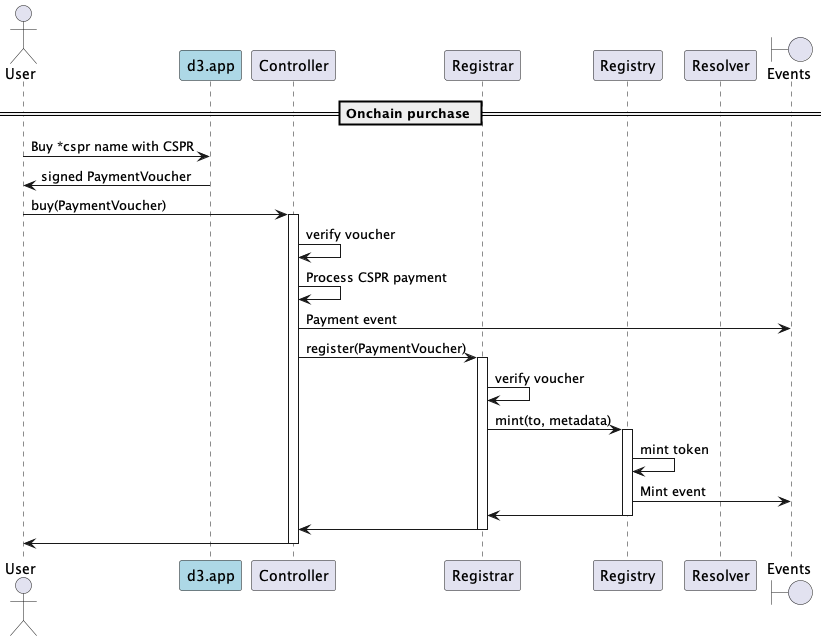
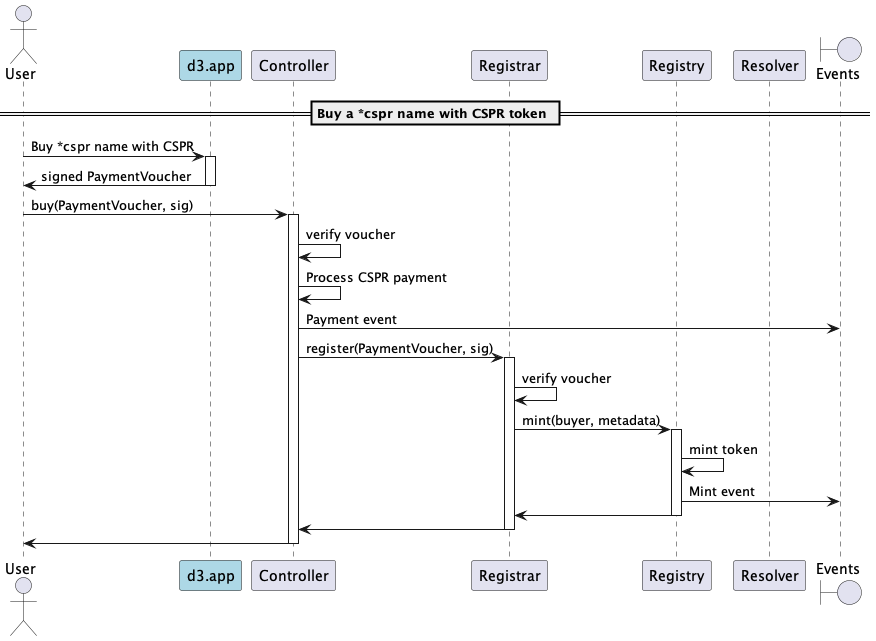
Update sequence diagrams

diff --git a/docs/sequence-diagrams/Secondary-sale market.md b/docs/sequence-diagrams/Secondary-sale market.md
@@ -1,0 +1,59 @@
+# Secondary-sale market
+
+## D3 Marketplace
+
+### List a *cspr name in the D3 Marketplace
+
+> As a *cspr name owner, I should be able to list my token in the D3 marketplace
+
+![](puml/d3-marketplace-list.png)
+[🔗](puml/d3-marketplace-list.puml)
+
+### Buy a *cspr name from D3 Marketplace with fiat payment
+
+> As a user, I should be able to buy a *cspr name listed in the D3 marketplace with a fiat payment
+
+![](puml/d3-marketplace-buy-fiat.png)
+[🔗](puml/d3-marketplace-buy-fiat.puml)
+
+### Buy a *cspr name from D3 Marketplace with CSPR token payment
+
+> As a user, I should be able to buy a *cspr name listed in the D3 marketplace with a CSPR token payment
+
+![](puml/d3-marketplace-buy-cspr-token.png)
+[🔗](puml/d3-marketplace-buy-cspr-token.puml)
+
+## Private actions
+
+### Approve / revoke an operator
+
+> As a *cspr name owner, I should be able to approve an operator, so that it can transfer the token on my behalf
+
+> As a *cspr name owner, I should be able to revoke the operator's permission
+
+![](puml/approve-revoke-operator.png)
+[🔗](puml/approve-revoke-operator.puml)
+
+### Approve for all
+
+> As an owner of one or more *cspr names, I should be able to approve an operator, so that it can transfer any of my tokens on my behalf
+
+> As an owner of one or more *cspr names, I should be able to revoke the operator's permission
+
+![](puml/approve-for-all.png)
+[🔗](puml/approve-for-all.puml)
+
+### Transfer
+
+> As a *cspr name owner, I should be able to transfer the ownership of the token to another account
+
+![](puml/transfer-domain.png)
+[🔗](puml/transfer-domain.puml)
+
+### Transfer from operator
+
+> As a token operator, I should be able to transfer the ownership of the token to another account
+
+![](puml/transfer-from-domain.png)
+[🔗](puml/transfer-from-domain.puml)
+

diff --git a/docs/sequence-diagrams/Admin functions.md b/docs/sequence-diagrams/Admin functions.md
@@ -1,35 +1,40 @@
 # Admin functions
 
-## Registry admin
+## Registry admin functions
 
-### Whitelist registrar
+### Whitelist registrar contract
 
+> As the Registry contract admin, I should be able to whitelist a Registrar contract, so that it can min new *cspr name 
+> tokens in the registry.
+> 
 ![](puml/whitelist-registrar.png)
 [🔗](puml/whitelist-registrar.puml)
 
 _used also to delist a registrar_
 
-## Registrar admin
+## Registrar admin functions
 
 ### Expire a domain
+
+> As the registrar contract, I should burn expired tokens upon request.
 
 ![](puml/expire-domain.png)
 [🔗](puml/expire-domain.puml)
 
 ### Burn a domain
 
+> As a D3 admin, I should be able to burn a cspr name token.
+
 ![](puml/burn-domain.png)
 [🔗](puml/burn-domain.puml)
 
 ### Whitelist a controller contract
 
+> As a Registrar admin, I should be able to whitelist a controller contract, 
+> so that it can mint and renew cspr name tokens.
+
 ![](puml/whitelist-controller.png)
 [🔗](puml/whitelist-controller.puml)
 
-### Delist a controller contract
-
-![](puml/delist-controller.png)
-[🔗](puml/delist-controller.puml)
-
-`whitelist_controller(package_hash Address, enabled bool)`
+_used also to delist a controller._
 

diff --git a/docs/sequence-diagrams/Renew a cspr name.md b/docs/sequence-diagrams/Renew a cspr name.md
@@ -1,0 +1,18 @@
+# Renew a domain
+
+## Renew with fiat currency
+
+> As a domain owner, I should be able to renew the domain with a fiat payment, so that the expiration date is extended.
+
+![](puml/offchain-renewal.png)
+[🔗](puml/offchain-renewal.puml)
+
+NOTE: lightblue color indicates off-chain system
+
+## Renew with CSPR token
+
+> As a domain owner, I should be able to renew the domain with a CSPR token payment, so that the expiration date is extended.
+
+![](puml/onchain-renewal.png)
+[🔗](puml/onchain-renewal.puml)
+

diff --git a/docs/sequence-diagrams/README.md b/docs/sequence-diagrams/README.md
@@ -2,8 +2,8 @@
 
 ## Index
 
-* [Buy a *cspr name](./Register%20a%20domain.md)
-* [Renew a domain](./Renew%20a%20domain.md)
+* [Buy a *cspr name](./Buy%20a%20cspr%20name.md)
+* [Renew a *cspr name](./Renew%20a%20cspr%20name.md)
 * [Resolution](./Resolution.md)
-* [Second-sale market](./Second-sale market.md)
+* [Second-sale market](./Secondary-sale market.md)
 * [Admin functions](./Admin%20functions.md)
